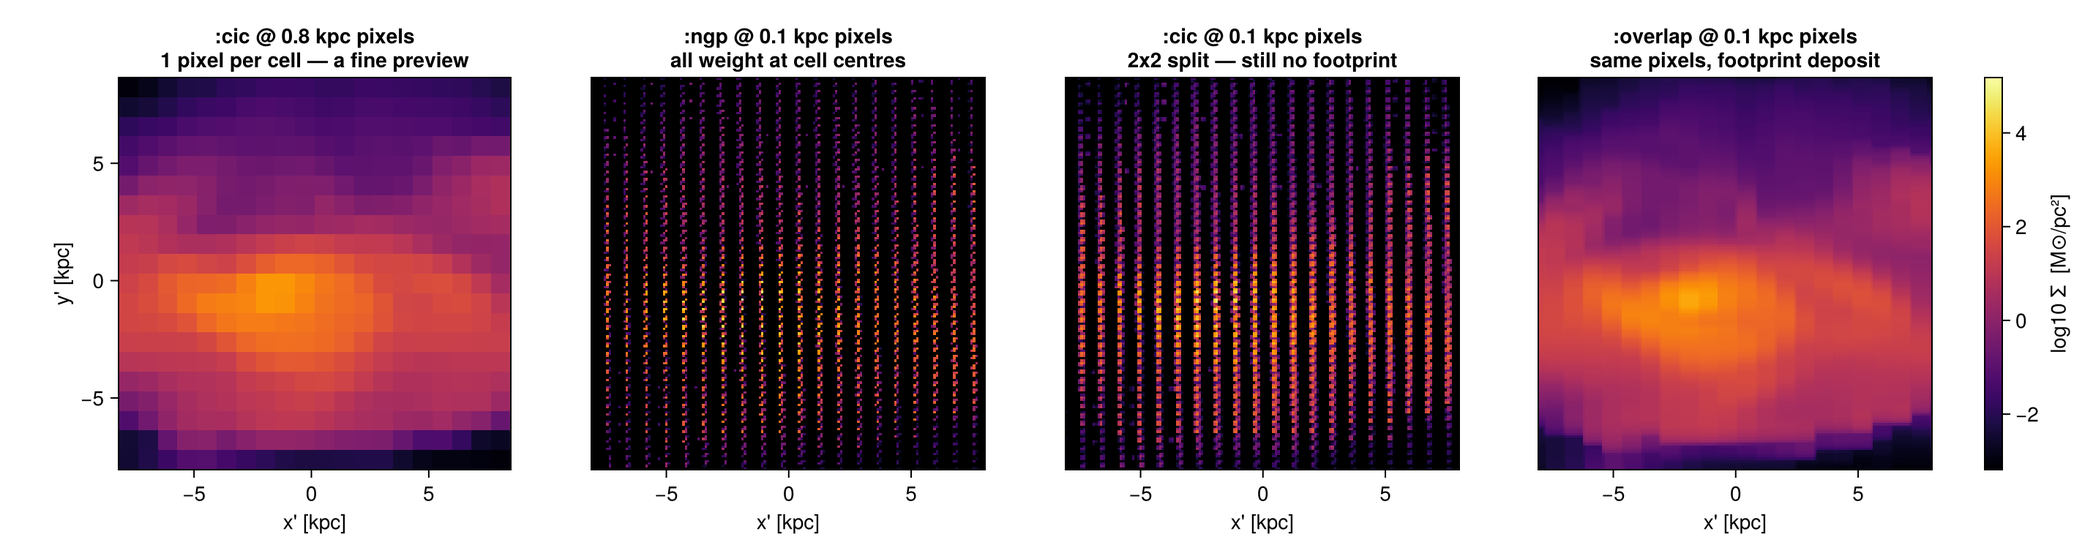
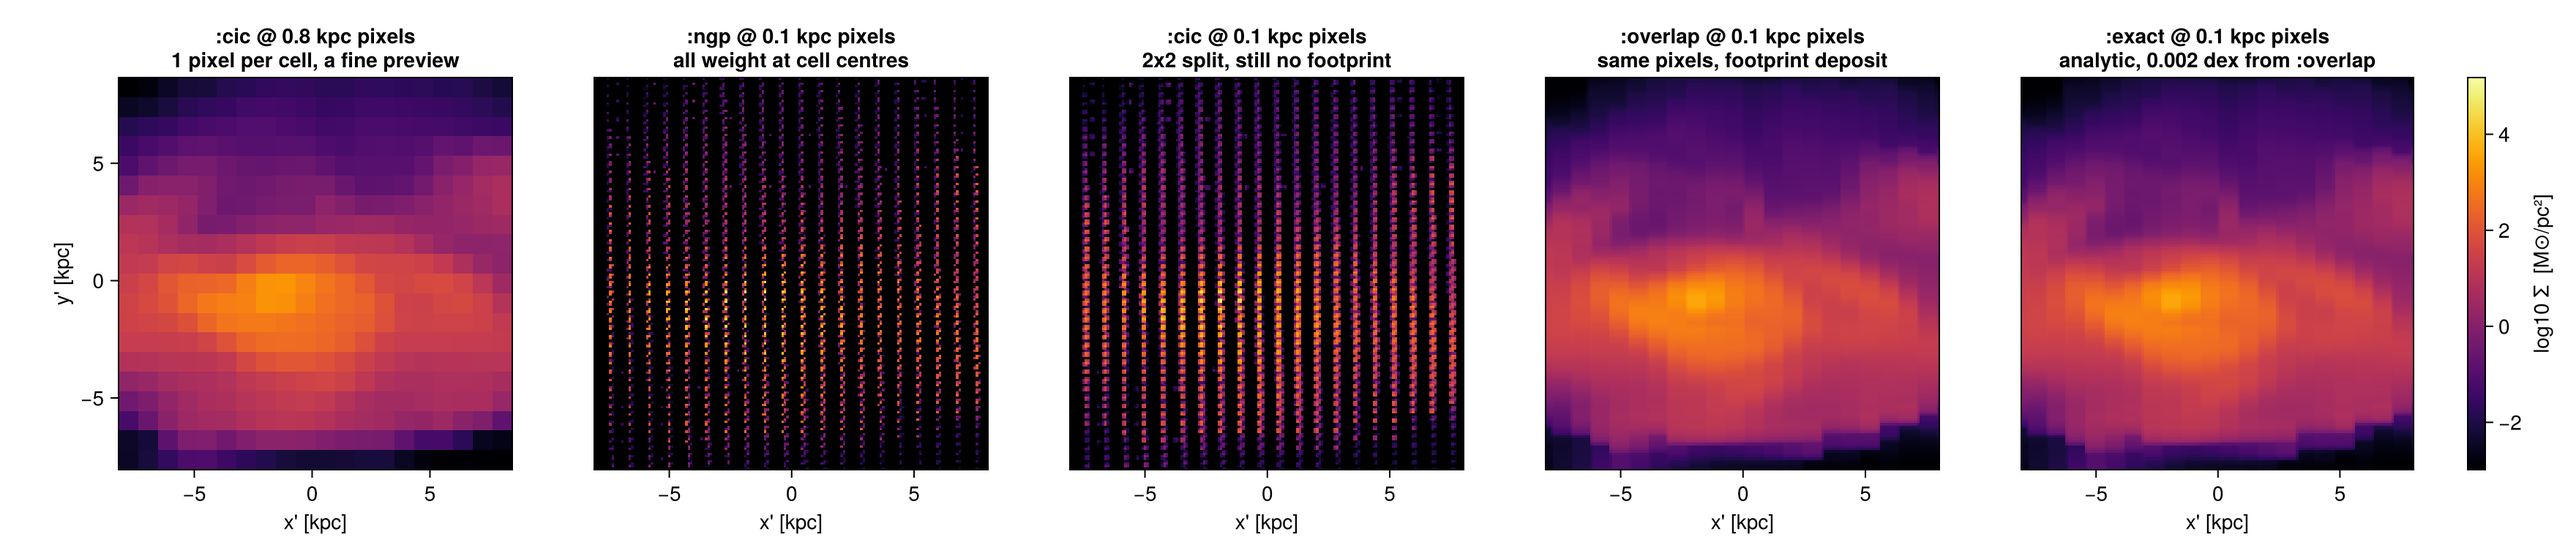
Show :exact in the binning figure, and note the particle fallback
* the binning comparison gains a fifth panel, :exact beside :overlap, so
  the 0.002 dex claim can be checked by eye instead of trusted
* the illustration now says particles have no shadow, so :overlap and
  :exact fall back to :cic on particle data

diff --git a/docs/src/06_offaxis_Projection.md b/docs/src/06_offaxis_Projection.md
@@ -63,27 +63,14 @@ println("threads      : ", Threads.nthreads())
 ```
 
 ```
-[ Info: Precompiling Mera [02f895e8-fdb1-4346-8fe6-c721699f5126](cache misses: include_dependency fsize change (2), wrong source (1), dep missing source (1), mismatched flags (6))
-[ Info: Precompiling Mera [02f895e8-fdb1-4346-8fe6-c721699f5126] (cache misses: include_dependency fsize change (4), wrong source (2), dep missing source (2), mismatched flags (12))
-SYSTEM: caught exception of type :MethodError while trying to print a failed Task notice; giving up
 *__   __ _______ ______   _______
-SYSTEM: caught exception of type :MethodError while trying to print a failed Task notice; giving up
-SYSTEM: caught exception of type :MethodError while trying to print a failed Task notice; giving up
 |  |_|  |       |    _ | |   _   |
 |       |    ___|   | || |  |_|  |
-SYSTEM: caught exception of type :MethodError while trying to print a failed Task notice; giving up
 |       |   |___|   |_||_|       |
 |       |    ___|    __  |       |
 | ||_|| |   |___|   |  | |   _   |
 |_|   |_|_______|___|  |_|__| |__|
 Mera v1.8.0 | Julia 1.12.7 | 4 threads
-[ Info: Precompiling MeraMakieExt [defab1b5-6ec5-5409-a2f4-69ec619b2a0e](cache misses: wrong dep version loaded (3), incompatible header (6))
-[ Info: Precompiling MeraMakieExt [defab1b5-6ec5-5409-a2f4-69ec619b2a0e] (cache misses: wrong dep version loaded (6), incompatible header (12))
-SYSTEM: caught exception of type :MethodError while trying to print a failed Task notice; giving up
-[ Info: Mera v1.8.0
-SYSTEM: caught exception of type :MethodError while trying to print a failed Task notice; giving up
-SYSTEM: caught exception of type :MethodError while trying to print a failed Task notice; giving up
-SYSTEM: caught exception of type :MethodError while trying to print a failed Task notice; giving up
 cells loaded : 590311
 box length   : 100.0 kpc
 levels       : 3 – 7
@@ -269,7 +256,7 @@ inclination + los         → ArgumentError
 direction=:faceon + axis  → ArgumentError
 ```
 
-![](06_offaxis_Projection_files/06_offaxis_Projection_10_6.png)
+![](06_offaxis_Projection_files/06_offaxis_Projection_10_7.png)
 
 `direction=:faceon` and `inclination=0, axis=:angmom` are the **same line of sight** — the two `ŵ`
 vectors agree to the last bit — but they are *not* the same image. A face-on view leaves the roll
@@ -339,7 +326,7 @@ end
              bound the depth, or `fov=<half-width>, fov_unit=…` for a fixed camera-plane
              frame (add aperture=:square for an identical frame at every angle).
              (shown once per session; verbose(false) silences Mera's messages)
-[Mera]: 2026-08-30T13:16:46.662
+[Mera]: 2026-08-30T16:36:23.439
 center: [0.5, 0.5, 0.5] ==> [50.0 [kpc] :: 50.0 [kpc] :: 50.0 [kpc]]
 domain:
 xmin::xmax: 0.28 :: 0.72  	==> 28.0 [kpc] :: 72.0 [kpc]
@@ -575,10 +562,10 @@ level 5.0:  cell 3.12  kpc  →  31.2 pixels per cell at pxsize = 0.1 kpc
 level 6.0:  cell 1.56  kpc  →  15.6 pixels per cell at pxsize = 0.1 kpc
 level 7.0:  cell 0.78  kpc  →  7.8 pixels per cell at pxsize = 0.1 kpc
 binning   empty px   time [s]  median |Δ| vs :exact [dex]
-ngp       85.7 %     0.006     1.0381
-cic       64.4 %     0.006     0.9733
-overlap   0.0 %      0.026     0.0021
-exact     0.0 %      0.09      0.0
+ngp       85.7 %     0.009     1.0381
+cic       64.4 %     0.009     0.9733
+overlap   0.0 %      0.036     0.0021
+exact     0.0 %      0.123     0.0
 ```
 
 ### One number is not enough: where the disagreement lives
@@ -641,24 +628,28 @@ run the cell above on your own data and let it decide.
 
 ```julia
 # ── figure code from here: panels, overlays, colorbars — no new Mera concepts ──
-# Show the REGIME, not one strawman: :cic where you would actually use it, then the three
-# sampled kernels at pixels 8x finer than the cell. :exact gets no panel on purpose — it is
-# visually indistinguishable from :overlap, and the cell above gives the number instead.
+# Show the REGIME, not one strawman: :cic where you would actually use it, then the four
+# kernels at pixels 8x finer than the cell. :exact sits next to :overlap on purpose. The table
+# above puts them 0.002 dex apart; the last two panels are where you confirm that with your own
+# eyes instead of taking the number on trust.
 pc_ok = projection(gas, :sd, :Msol_pc2; inclination=60, axis=:angmom, binning=:cic,
                    center=[:bc], fov=8, fov_unit=:kpc, aperture=:square,
                    pxsize=[0.8,:kpc], verbose=false, show_progress=false)
+k_exa = kern[:exact]
 allv = reduce(vcat, [log10.(filter(>(0), vec(Float64.(p.maps[:sd]))))
-                     for p in (pc_ok, k_ngp, k_cic, k_ovl)])
+                     for p in (pc_ok, k_ngp, k_cic, k_ovl, k_exa)])
 cr = (quantile(allv, 0.02), maximum(allv))
-maprow([pc_ok, k_ngp, k_cic, k_ovl], :sd,
+maprow([pc_ok, k_ngp, k_cic, k_ovl, k_exa], :sd,
        [":cic @ 0.8 kpc pixels
-1 pixel per cell — a fine preview",
+1 pixel per cell, a fine preview",
         ":ngp @ 0.1 kpc pixels
 all weight at cell centres",
         ":cic @ 0.1 kpc pixels
-2x2 split — still no footprint",
+2x2 split, still no footprint",
         ":overlap @ 0.1 kpc pixels
-same pixels, footprint deposit"]; crange=cr)
+same pixels, footprint deposit",
+        ":exact @ 0.1 kpc pixels
+analytic, 0.002 dex from :overlap"]; crange=cr)
 ```
 
 ![](06_offaxis_Projection_files/06_offaxis_Projection_27_1.png)
@@ -678,8 +669,8 @@ each cell over the area its shadow actually covers and leaves **no** pixel empty
 `:overlap` agrees to a **median 0.0005 dex** per pixel (99th percentile 0.005, worst pixel 0.033;
 mass-weighted mean 0.0009 dex) — a 0.1 % effect, for roughly a third of the cost. The point-deposit
 kernels differ from the same reference by a **median 1.3 dex**, a factor of 20, on the pixels they
-do fill. That is the whole case for the default in two numbers, and it is why `:exact` gets no
-panel above: it would be indistinguishable from `:overlap` by eye.
+do fill. That is the whole case for the default in two numbers. `:exact` is the last panel above, so
+you can check the claim yourself: it should be indistinguishable from `:overlap`.
 
 The level table tells you which regime you are in: divide the local cell size by your `pxsize`.
 Below about one pixel per cell, any kernel will do; well above it, only the footprint methods are
